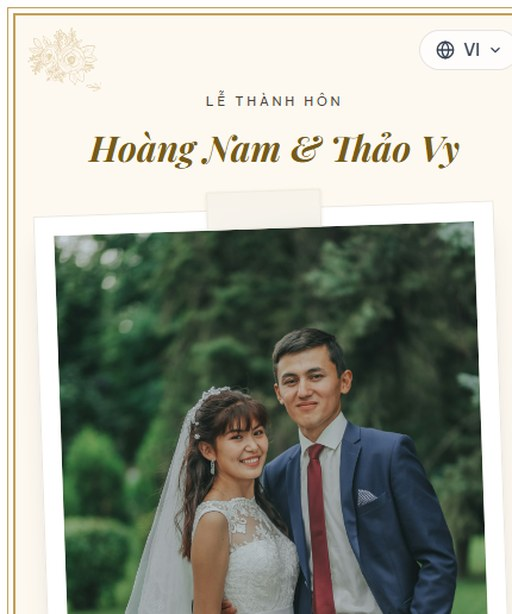
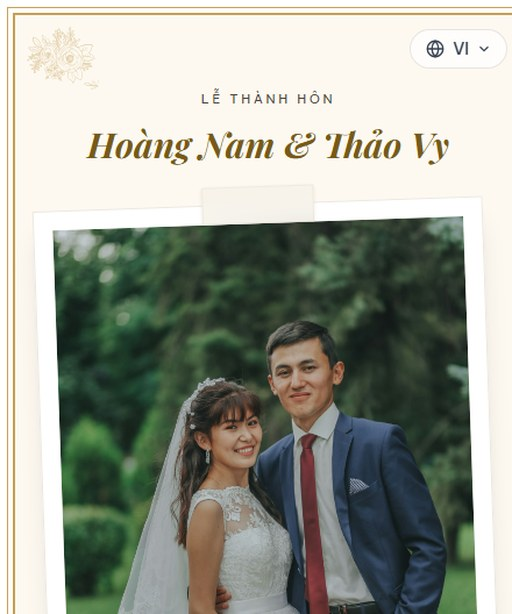
fix: use a fixed card width instead of vw units on Wedding-4
TemplateEditorPage's desktop preview pane can be scaled/constrained to
fit its own layout, so vw resolved against the true browser viewport
and then got visually shrunk again on top of that — the card rendered
far smaller than intended and inconsistently between contexts. A fixed
420px width (w-105) renders the same size everywhere.

diff --git a/src/data/Template/wedding/Wedding-4/index.tsx b/src/data/Template/wedding/Wedding-4/index.tsx
@@ -37,11 +37,13 @@ export default function Wedding4({ lang = 'vi' }: Props) {
   );
 
   return (
-    // Trình bày như 1 tấm thiệp dọc duy nhất căn giữa trên nền trắng — bề rộng thiệp
-    // ~2/9 bề ngang màn hình ở desktop (kẹp min/max để chữ không quá chật/quá loãng),
-    // full-width trên mobile vì 2/9 của màn hình điện thoại sẽ không đọc được.
+    // Trình bày như 1 tấm thiệp dọc duy nhất căn giữa trên nền trắng. Bề rộng thiệp
+    // cố định bằng px/rem (KHÔNG dùng vw) — TemplateEditorPage render preview desktop
+    // qua 1 pane có thể bị scale/co lại để vừa khung, nên đơn vị vw sẽ tính theo bề
+    // ngang cửa sổ trình duyệt thật rồi bị scale chồng thêm 1 lần nữa, ra kích thước
+    // không đoán trước được — cố định px mới cho kết quả nhất quán ở mọi nơi hiển thị.
     <div className="min-h-screen bg-white flex justify-center sm:py-10">
-      <div className="relative w-full sm:w-104 lg:w-[22vw] lg:min-w-90 lg:max-w-110 p-1.5 sm:p-2">
+      <div className="relative w-full sm:w-105 p-1.5 sm:p-2">
         <div className="border border-[#C5A059] p-1">
           <div className="relative border-2 border-[#C5A059] bg-[#FDF9F1] text-[#1c1c17] font-sans antialiased overflow-hidden">
 
